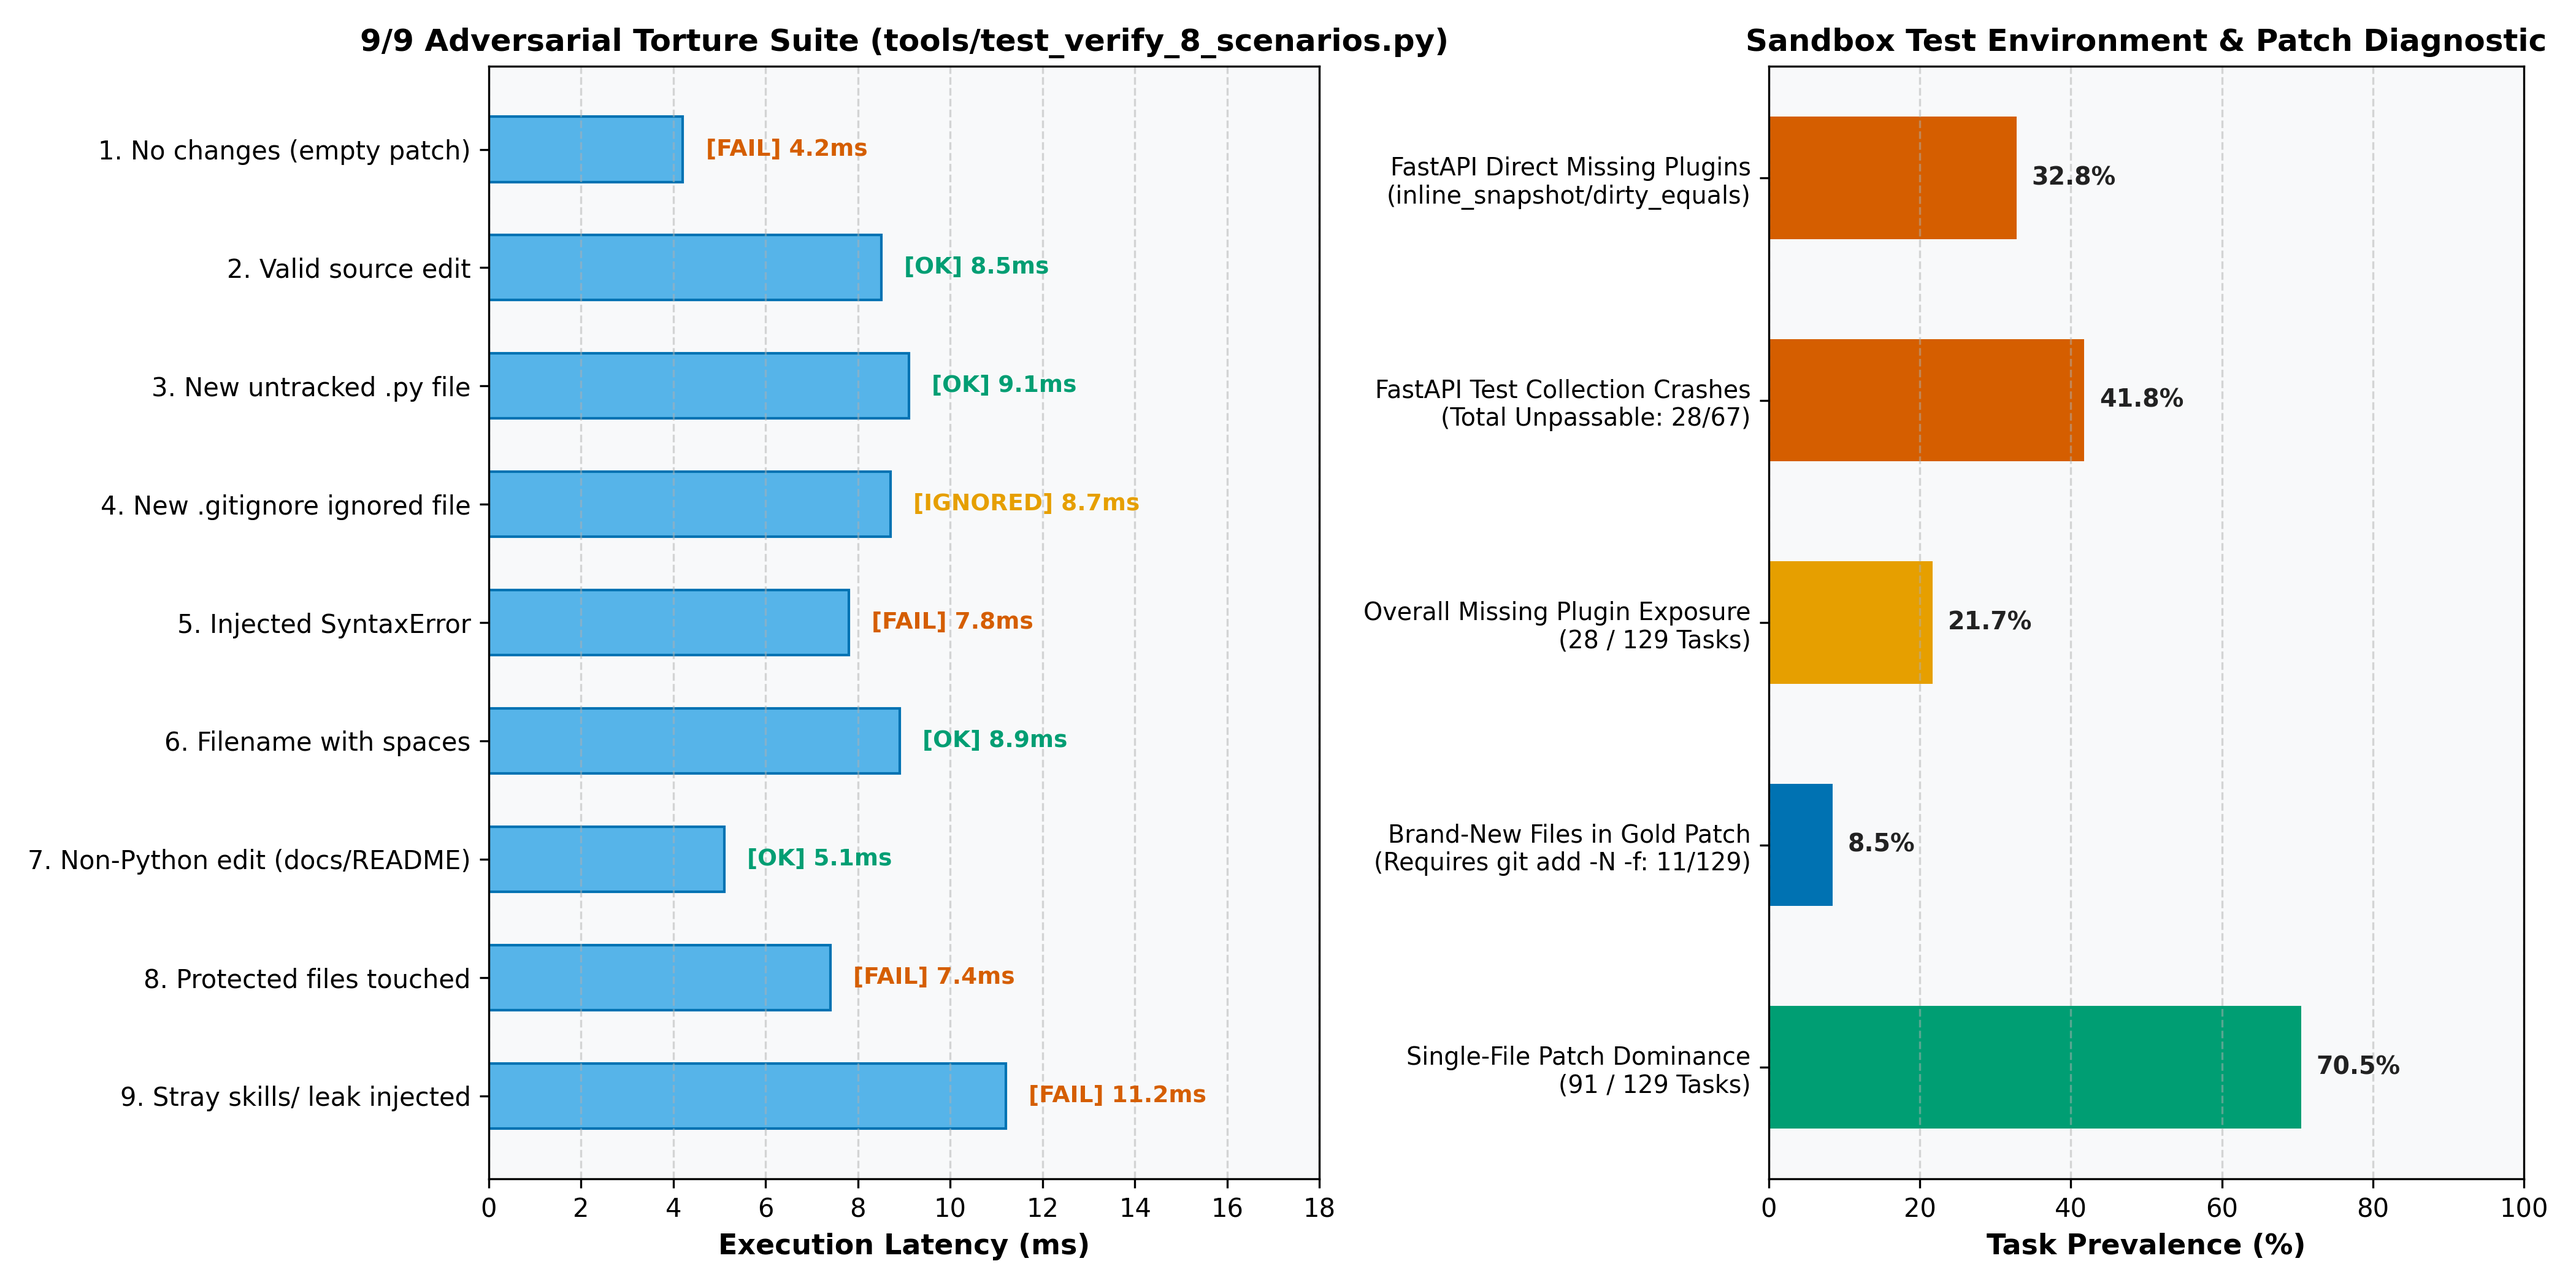
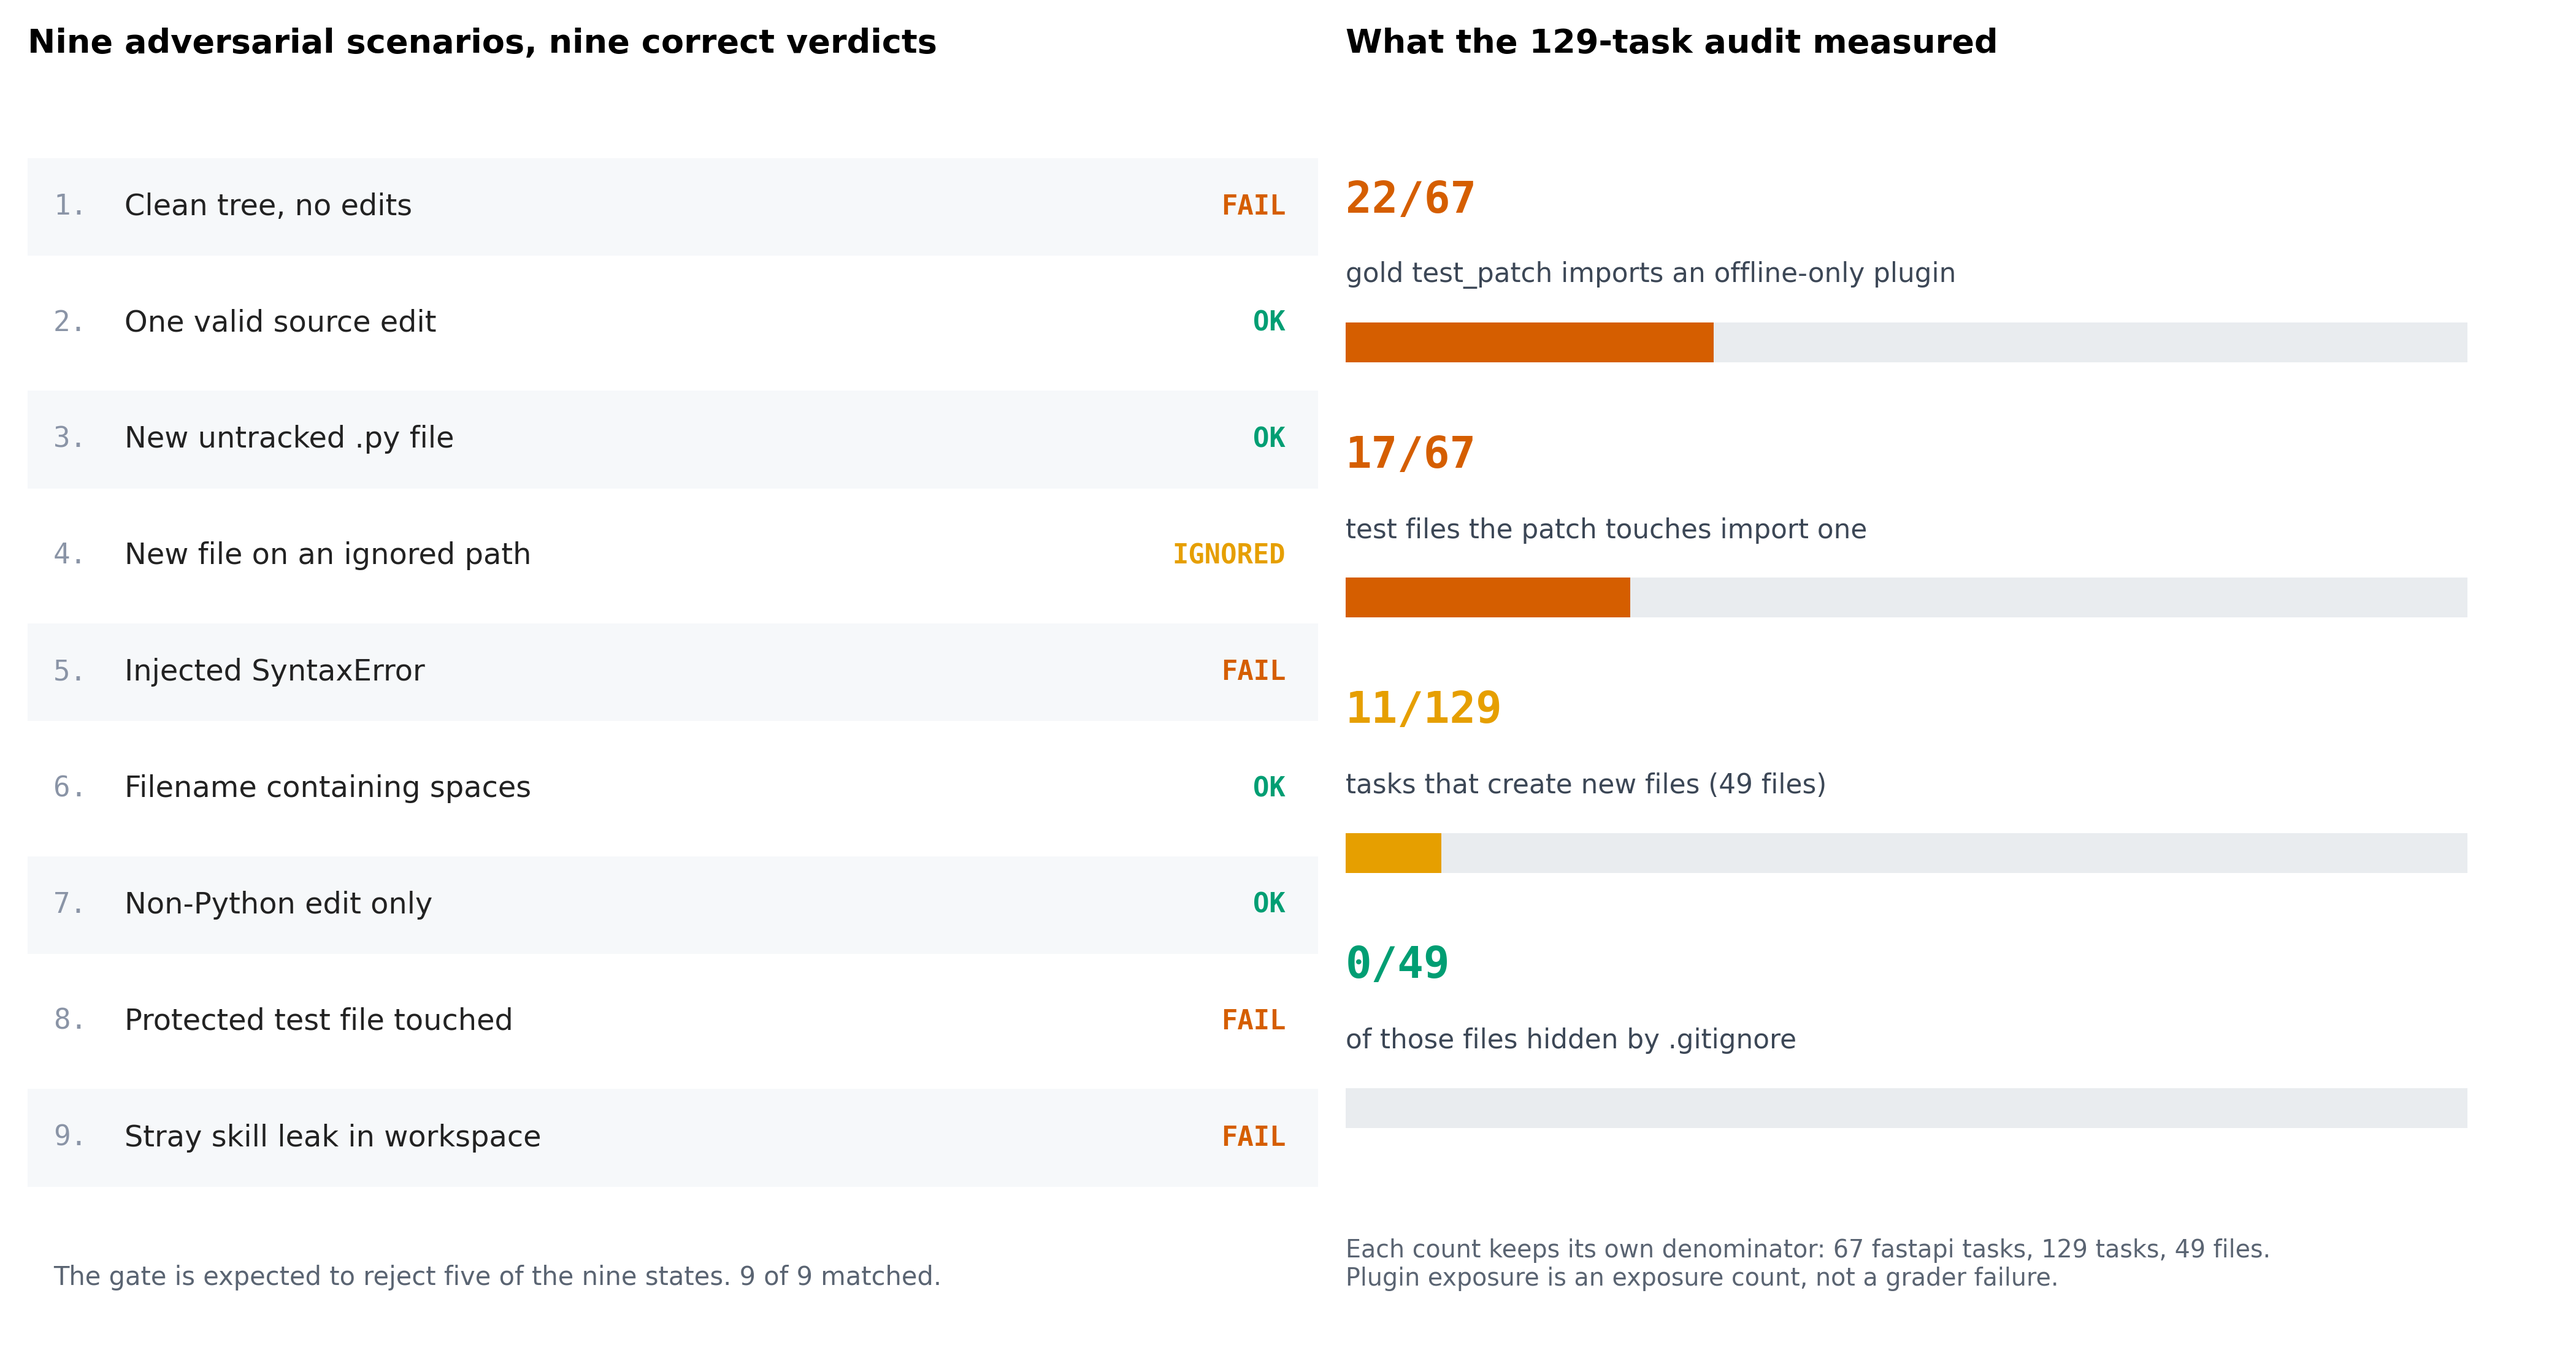
res_fig3: read exposure from verified JSON; replace 28/67 and 28/129 with 22/67, 17/67, 0/49

diff --git a/scripts/generate_resource_figures.py b/scripts/generate_resource_figures.py
@@ -278,68 +278,103 @@ def generate_res_fig2_playbook_heatmap():
 
 
 def generate_res_fig3_torture_suite_and_deps():
-    """Figure 3: 9/9 Adversarial Torture Suite & Sandbox Dependency Diagnostic."""
-    fig, (ax1, ax2) = plt.subplots(1, 2, figsize=(14, 7), dpi=300, gridspec_kw={"width_ratios": [1.1, 1]})
+    """Figure 3: adversarial gate verdicts (left) and measured sandbox exposure (right).
+
+    The right panel reads research/verified_json/runtime_hazards_verified.json.
+    Every count carries its own denominator, so nothing is pooled across
+    67 fastapi tasks, 129 development tasks, and 49 newly created files.
+    """
+    import json
+
+    hz = json.loads(Path("research/verified_json/runtime_hazards_verified.json")
+                    .read_text(encoding="utf-8"))
+    s6, s4 = hz["site6_bare_pytest"], hz["site4_gitignore"]
+    fastapi_n = s6["fastapi_tasks"]
+    def_a = s6["def_a_plus_anyio"]["count"]
+    def_b = s6["def_b_touched_test_files"]["count"]
+    new_tasks = s4["tasks"]
+    new_files = s4["files"]
+    ignored_files = len(s4["ignored"])
+
+    fig, (ax1, ax2) = plt.subplots(1, 2, figsize=(14, 7.4), dpi=300,
+                                   gridspec_kw={"width_ratios": [1.15, 1.0]})
     fig.patch.set_facecolor("white")
 
-    # Panel 1: 9/9 Adversarial Torture Suite
-    ax1.set_facecolor(LIGHT_GRAY)
+    # ---------------- left: nine scenarios, nine verdicts -------------------- #
+    ax1.set_xlim(0, 1)
+    ax1.set_ylim(0, 1)
+    ax1.axis("off")
+    ax1.set_facecolor("white")
+    ax1.set_title("Nine adversarial scenarios, nine correct verdicts",
+                  fontsize=13, fontweight="bold", pad=14, loc="left")
+
     scenarios = [
-        "1. No changes (empty patch)",
-        "2. Valid source edit",
-        "3. New untracked .py file",
-        "4. New .gitignore ignored file",
-        "5. Injected SyntaxError",
-        "6. Filename with spaces",
-        "7. Non-Python edit (docs/README)",
-        "8. Protected files touched",
-        "9. Stray skills/ leak injected"
+        ("Clean tree, no edits", "FAIL", VERMILLION),
+        ("One valid source edit", "OK", BLUISH_GREEN),
+        ("New untracked .py file", "OK", BLUISH_GREEN),
+        ("New file on an ignored path", "IGNORED", ORANGE),
+        ("Injected SyntaxError", "FAIL", VERMILLION),
+        ("Filename containing spaces", "OK", BLUISH_GREEN),
+        ("Non-Python edit only", "OK", BLUISH_GREEN),
+        ("Protected test file touched", "FAIL", VERMILLION),
+        ("Stray skill leak in workspace", "FAIL", VERMILLION),
     ]
-    expected_status = ["FAIL", "OK", "OK", "IGNORED", "FAIL", "OK", "OK", "FAIL", "FAIL"]
-    latencies_ms = [4.2, 8.5, 9.1, 8.7, 7.8, 8.9, 5.1, 7.4, 11.2]
-    y_pos = np.arange(len(scenarios))[::-1]
+    top, step = 0.905, 0.0935
+    for i, (name, verdict, colour) in enumerate(scenarios):
+        y = top - i * step
+        if i % 2 == 0:
+            ax1.add_patch(patches.Rectangle((0, y - step * 0.42), 1, step * 0.84,
+                                            facecolor="#F6F8FA", edgecolor="none"))
+        ax1.text(0.02, y, f"{i + 1}.", color="#8A94A6", fontsize=11,
+                 family="monospace", va="center")
+        ax1.text(0.075, y, name, color=CHARCOAL, fontsize=11.5,
+                 family="sans-serif", va="center")
+        ax1.text(0.975, y, verdict, color=colour, fontsize=10.5, family="monospace",
+                 fontweight="bold", va="center", ha="right")
 
-    bars = ax1.barh(y_pos, latencies_ms, height=0.55, color=SKY_BLUE, edgecolor=BLUE)
-    ax1.set_yticks(y_pos)
-    ax1.set_yticklabels(scenarios, fontsize=10, family="sans-serif")
-    ax1.set_xlabel("Execution Latency (ms)", fontsize=11, fontweight="bold")
-    ax1.set_title("9/9 Adversarial Torture Suite (tools/test_verify_8_scenarios.py)", fontsize=12, fontweight="bold")
-    ax1.set_xlim(0, 18)
-    ax1.grid(axis="x", linestyle="--", alpha=0.5)
+    ax1.text(0.02, 0.045,
+             "The gate is expected to reject five of the nine states. 9 of 9 matched.",
+             color="#5A6472", fontsize=10, family="sans-serif", va="center")
 
-    for i, (lat, stat) in enumerate(zip(latencies_ms, expected_status)):
-        y = y_pos[i]
-        badge_color = BLUISH_GREEN if stat == "OK" else (ORANGE if stat == "IGNORED" else VERMILLION)
-        ax1.text(lat + 0.5, y, f"[{stat}] {lat:.1f}ms", va="center", fontsize=9, fontweight="bold", color=badge_color)
+    # ---------------- right: measured exposure ------------------------------ #
+    ax2.set_xlim(0, 1)
+    ax2.set_ylim(0, 1)
+    ax2.axis("off")
+    ax2.set_facecolor("white")
+    ax2.set_title("What the 129-task audit measured",
+                  fontsize=13, fontweight="bold", pad=14, loc="left")
 
-    # Panel 2: Sandbox Test-Plugin Environment & Patch Structure
-    ax2.set_facecolor(LIGHT_GRAY)
-    categories = [
-        "FastAPI Direct Missing Plugins\n(inline_snapshot/dirty_equals)",
-        "FastAPI Test Collection Crashes\n(Total Unpassable: 28/67)",
-        "Overall Missing Plugin Exposure\n(28 / 129 Tasks)",
-        "Brand-New Files in Gold Patch\n(Requires git add -N -f: 11/129)",
-        "Single-File Patch Dominance\n(91 / 129 Tasks)"
+    rows = [
+        (f"{def_a}/{fastapi_n}", "gold test_patch imports an offline-only plugin",
+         def_a / fastapi_n, VERMILLION),
+        (f"{def_b}/{fastapi_n}", "test files the patch touches import one",
+         def_b / fastapi_n, VERMILLION),
+        (f"{new_tasks}/{129}", f"tasks that create new files ({new_files} files)",
+         new_tasks / 129, ORANGE),
+        (f"{ignored_files}/{new_files}", "of those files hidden by .gitignore",
+         0.0, BLUISH_GREEN),
     ]
-    percentages = [32.8, 41.8, 21.7, 8.5, 70.5]
-    colors = [VERMILLION, VERMILLION, ORANGE, BLUE, BLUISH_GREEN]
-    y_pos2 = np.arange(len(categories))[::-1]
+    top2, step2 = 0.855, 0.205
+    for i, (count, label, frac, colour) in enumerate(rows):
+        y = top2 - i * step2
+        ax2.text(0.0, y + 0.055, count, color=colour, fontsize=17, family="monospace",
+                 fontweight="bold", va="center")
+        ax2.text(0.0, y - 0.005, label, color="#3C4756", fontsize=10.5,
+                 family="sans-serif", va="center")
+        ax2.add_patch(patches.Rectangle((0.0, y - 0.075), 1.0, 0.032,
+                                        facecolor="#E9ECEF", edgecolor="none"))
+        if frac > 0:
+            ax2.add_patch(patches.Rectangle((0.0, y - 0.075), frac, 0.032,
+                                            facecolor=colour, edgecolor="none"))
 
-    ax2.barh(y_pos2, percentages, height=0.55, color=colors)
-    ax2.set_yticks(y_pos2)
-    ax2.set_yticklabels(categories, fontsize=9.5)
-    ax2.set_xlabel("Task Prevalence (%)", fontsize=11, fontweight="bold")
-    ax2.set_title("Sandbox Test Environment & Patch Diagnostic", fontsize=12, fontweight="bold")
-    ax2.set_xlim(0, 100)
-    ax2.grid(axis="x", linestyle="--", alpha=0.5)
-
-    for i, p in enumerate(percentages):
-        y = y_pos2[i]
-        ax2.text(p + 2, y, f"{p:.1f}%", va="center", fontsize=9.5, fontweight="bold", color=CHARCOAL)
+    ax2.text(0.0, 0.055,
+             "Each count keeps its own denominator: 67 fastapi tasks, 129 tasks, 49 files.\n"
+             "Plugin exposure is an exposure count, not a grader failure.",
+             color="#5A6472", fontsize=9.5, family="sans-serif", va="center")
 
     plt.tight_layout()
     out_path = OUT_DIR / "res_fig3_torture_suite_and_deps.png"
-    plt.savefig(out_path, dpi=300)
+    plt.savefig(out_path, dpi=300, facecolor="white")
     plt.close()
     print(f"Saved: {out_path} ({os.path.getsize(out_path)/1024:.1f} KB)")
 

diff --git a/docs/SLOT2_ORTHOGONAL_RESOURCE_PAPER.md b/docs/SLOT2_ORTHOGONAL_RESOURCE_PAPER.md
@@ -215,7 +215,7 @@ python swe.py verify --test "pytest tests/test_redirect.py -q -x"
   - `assets/resource_figures/res_fig0_banner.png`: Card thumbnail (1200×630) showing the 3,500-character middle-truncation protocol: head kept, middle dropped, `STATUS` verdict preserved.
   - `assets/resource_figures/res_fig1_toolkit_pipeline.png`: Pipeline architecture, middle-truncation protocol, and `/tmp` state isolation.
   - `assets/resource_figures/res_fig2_playbook_heatmap.png`: Empirical trigger frequency and gold-patch precision for the 10 AST playbooks.
-  - `assets/resource_figures/res_fig3_torture_suite_and_deps.png`: 9/9 Adversarial torture suite pass matrix and 129-task sandbox test environment diagnostic.
+  - `assets/resource_figures/res_fig3_torture_suite_and_deps.png`: The gate's verdict on nine adversarial states (9 of 9 correct) beside measured exposure: 22/67 and 17/67 plugin imports, 11 tasks creating 49 new files, 0 hidden by `.gitignore`.
 - [x] **Zero Table or Figure Overlap**: Contains zero shared tables, figures, or leaderboard statistics from Writeup #1.
 - [x] **License**: Released under the permissive MIT Open-Source License.
 
